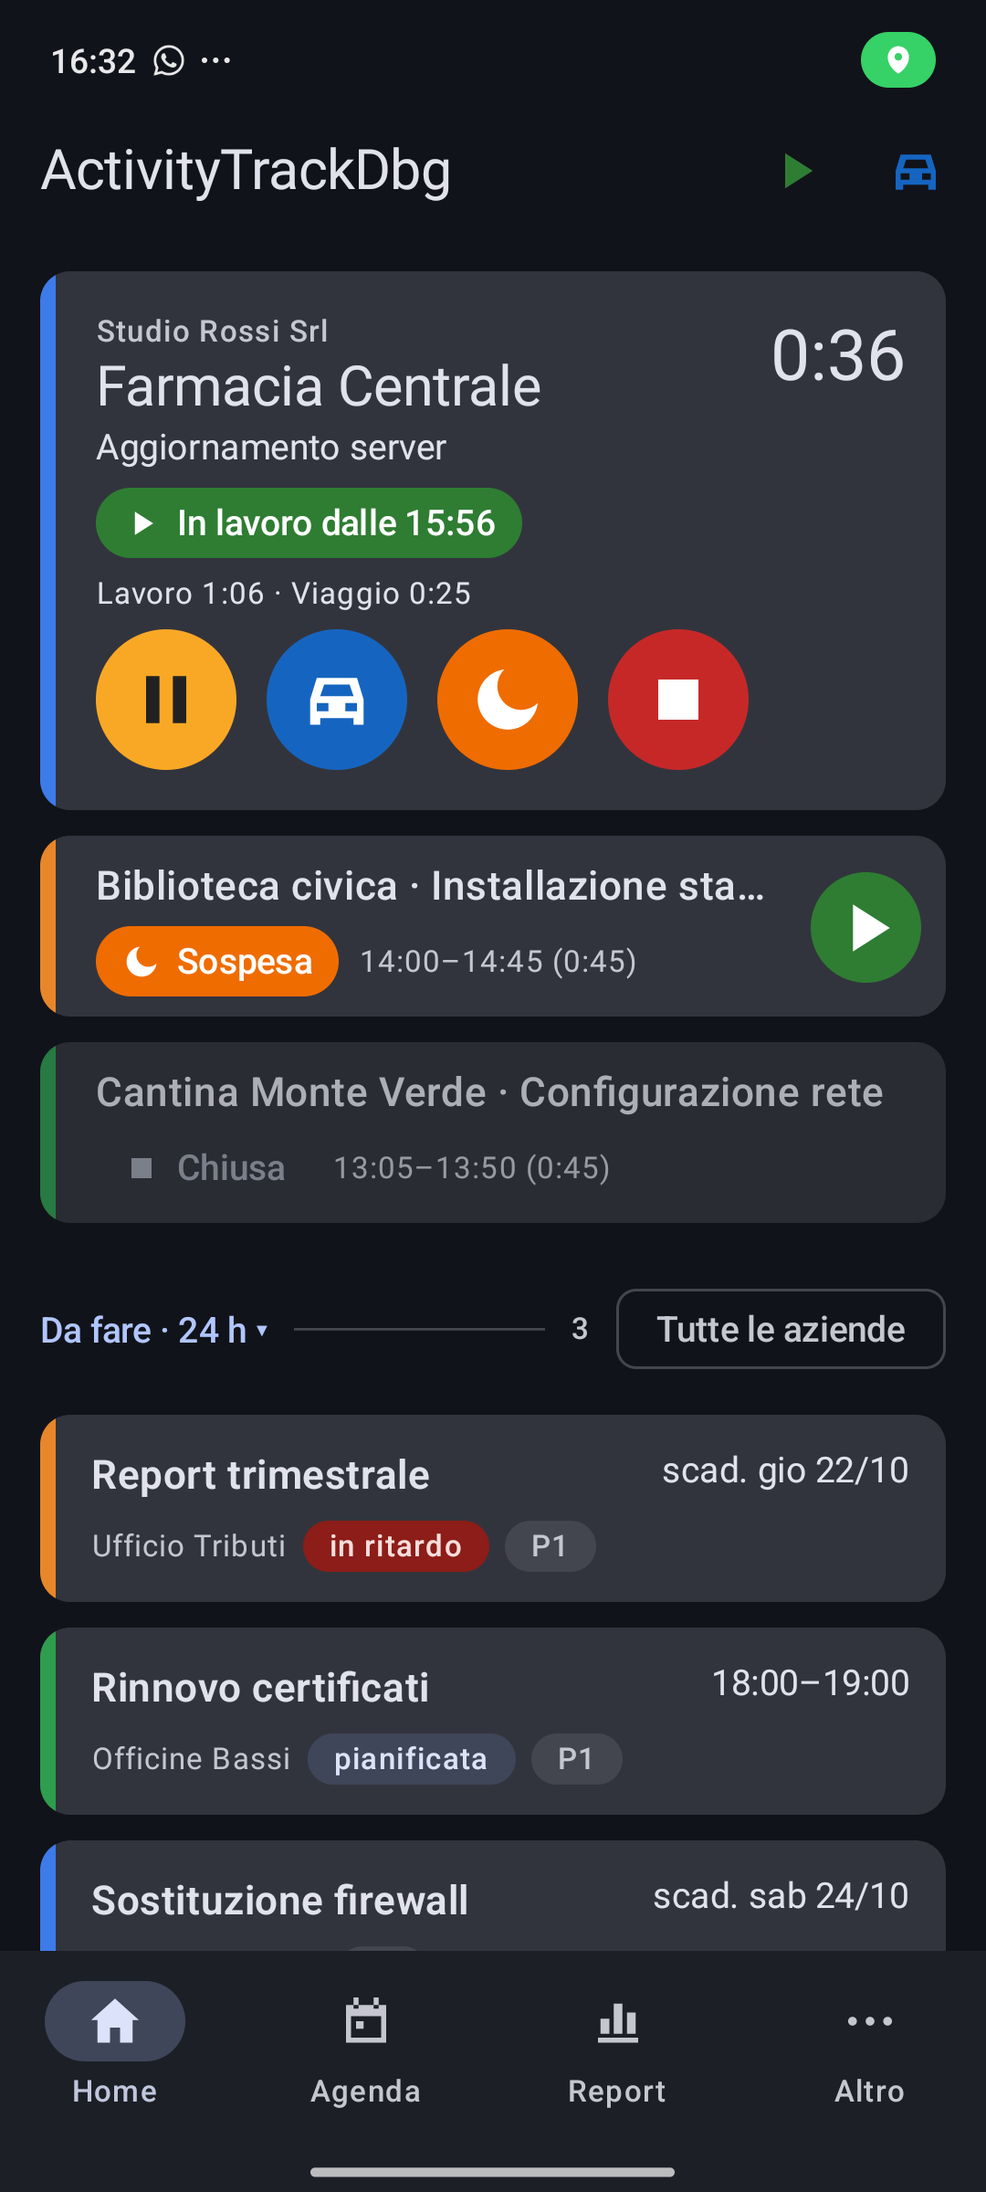
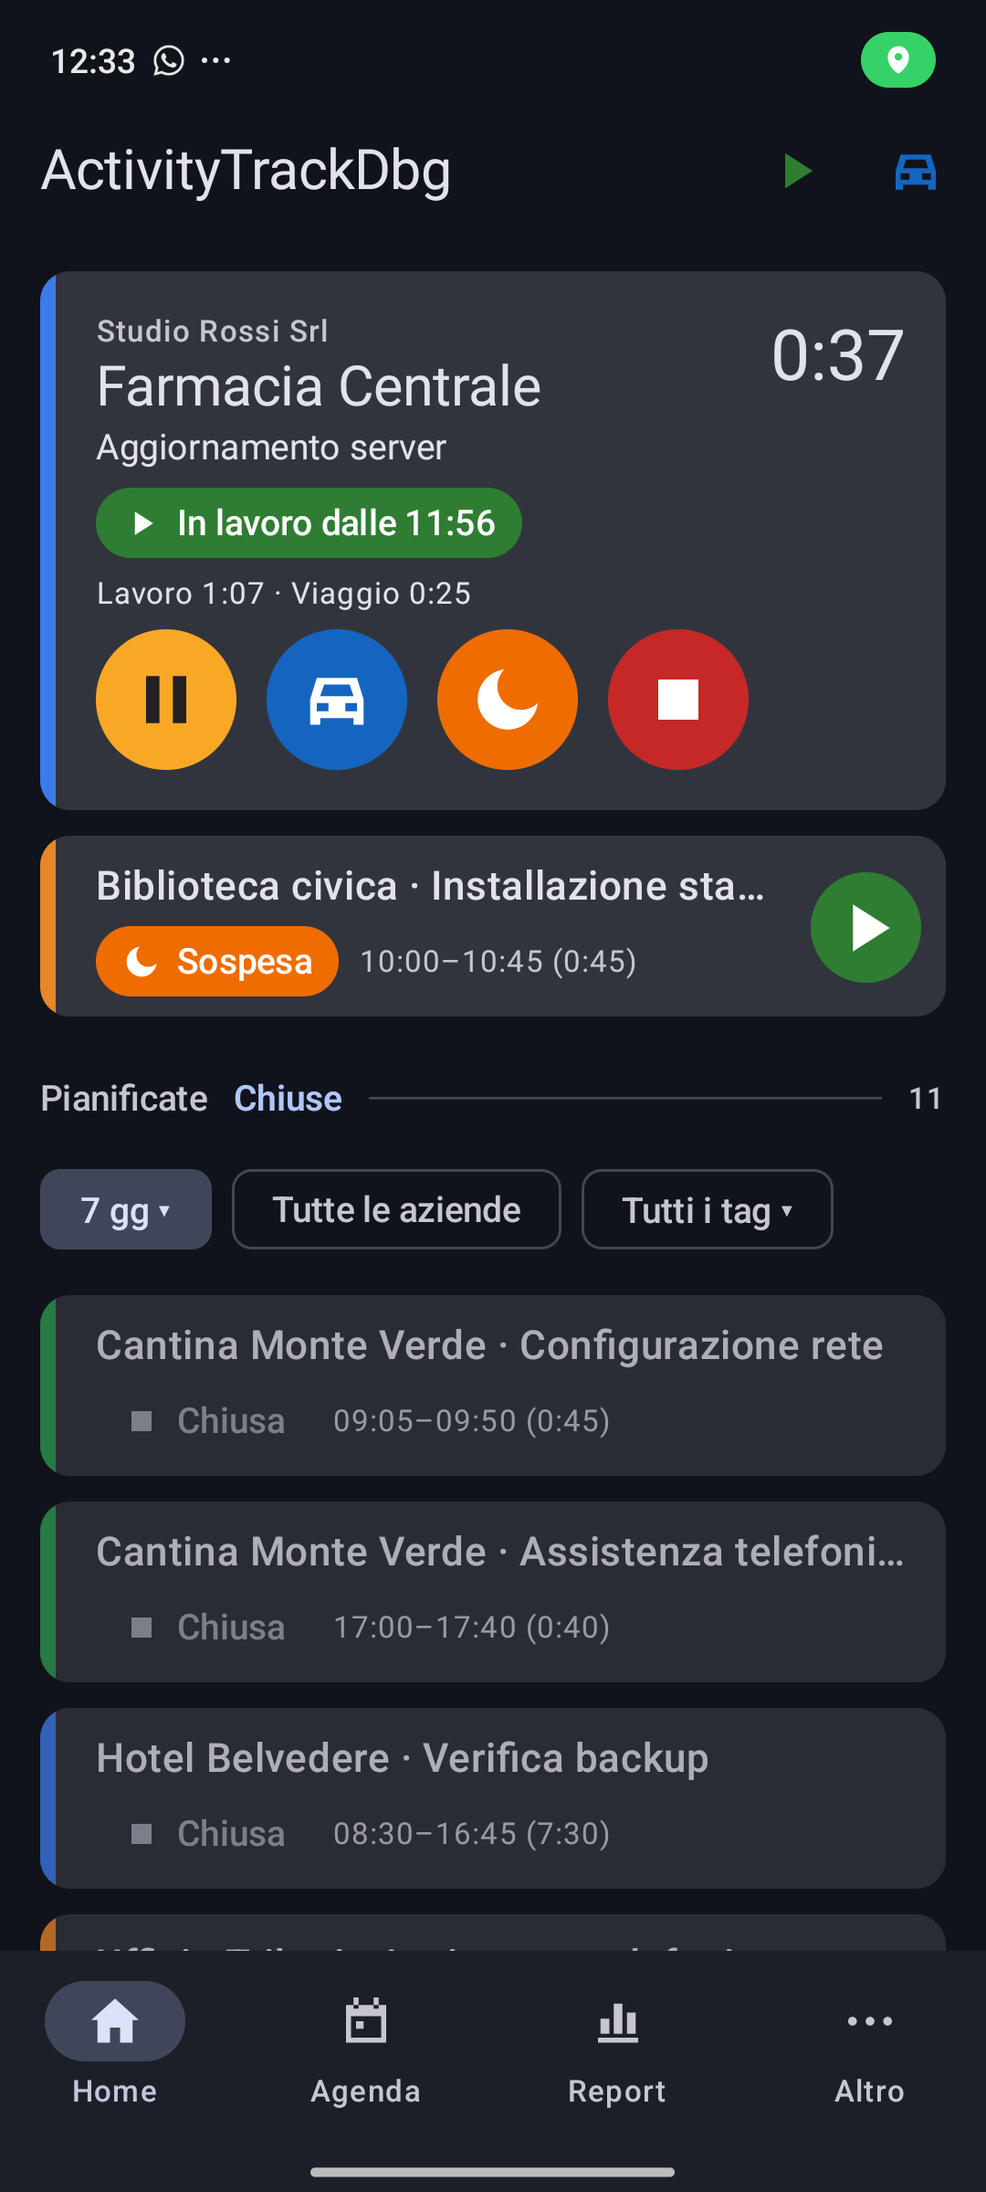
Release 0.7.4: manual with the Home tabs and the 4x2 widgets
Manual 0.7.4 (it/en): the Home chapter describes the Pianificate and
Chiuse tabs (windows, ordering, no-date section, remembered tab) in
place of the removed "latest completed" cards and "Da fare · 24 h"
section; the widget chapter documents the two new 4×2 widgets — current
activity (elapsed per minute, stop at once, Start and Travel when idle)
and planned to-dos (direct start from a to-do with a client, Pause and
Stop on the started row, scrolling rows) — plus the window setting in
the Display sections of chapters 14 and 17.

Screenshots retaken on the debug phone for both languages, two
new: home-closed (the Chiuse tab) and widgets (both 4×2 on the
launcher). scripts/screenshots.py: keeps the screen on and awake for the
whole run (a locked phone gives black shots and an empty dump), closes
the notification shade by checking the FOCUS line only (the window list
always mentions it — a stray BACK minimised the app), captures the two
new shots, and resets locale and stay-on before restoring the phone's
database (the restore is then byte-for-byte).

check-manual passes; PDFs built.

Assisted-by: GLM-5.3

diff --git a/scripts/screenshots.py b/scripts/screenshots.py
@@ -28,10 +28,10 @@ DBS = ["activitytrack.db", "activitytrack.db-wal", "activitytrack.db-shm"]
 LABELS = {
 	"it": dict(new="Nuova attività", end="^Fine$", agenda="Agenda", day="Giorno", report="Report", more="Altro",
 		todos="Da fare", md="Anagrafiche", clients="Clienti", manual="Manuale", settings="Impostazioni", running="Farmacia Centrale",
-		contacts="Contatti", calls="Chiamate"),
+		contacts="Contatti", calls="Chiamate", planned="Pianificate", closed="Chiuse"),
 	"en": dict(new="New activity", end="^End$", agenda="Agenda", day="Day", report="Report", more="More",
 		todos="To-dos", md="Master data", clients="Clients", manual="Manual", settings="Settings", running="Farmacia Centrale",
-		contacts="Contacts", calls="Calls"),
+		contacts="Contacts", calls="Calls", planned="Planned", closed="Closed"),
 }
 
 
@@ -61,11 +61,24 @@ def nodes():
 			yield n, b
 
 
+def dismiss_shade():
+	# MIUI: the notification shade may cover the app (uiautomator then sees
+	# nothing); close it with BACK, never by coordinates (pitfall, 2026-10-17).
+	# grep for the FOCUS line only: the window LIST always mentions the shade.
+	focus = sh("dumpsys", "window", "|", "grep", "mCurrentFocus")
+	if "NotificationShade" in focus:
+		sh("input", "keyevent", "4")
+		time.sleep(1.5)
+
+
 def find(pattern, index=0):
 	pat = re.compile(pattern)
 	hits = [b for n, b in nodes() if pat.search(n.get("text") or n.get("content-desc") or "")]
 	if len(hits) <= index:
-		raise SystemExit(f"not on screen: {pattern}")
+		dismiss_shade()
+		hits = [b for n, b in nodes() if pat.search(n.get("text") or n.get("content-desc") or "")]
+		if len(hits) <= index:
+			raise SystemExit(f"not on screen: {pattern}")
 	return hits[index]
 
 
@@ -111,6 +124,7 @@ def restart():
 	sh("am", "force-stop", PKG)
 	sh("am", "start", "-n", MAIN)
 	time.sleep(4)
+	dismiss_shade()
 
 
 def put_db(local):
@@ -126,6 +140,10 @@ def capture(lang):
 	sh("cmd", "locale", "set-app-locales", PKG, "--locales", {"it": "it-IT", "en": "en-US"}[lang])
 	restart()
 	shot(lang, "home")
+	# the bottom tabs of the Home (issue #59): the Chiuse tab, then back
+	tap(f"^{t['closed']}$", wait=2.5)
+	shot(lang, "home-closed")
+	tap(f"^{t['planned']}$", wait=2)
 	tap(t["new"])
 	shot(lang, "start")
 	tap(t["end"])
@@ -169,6 +187,13 @@ def capture(lang):
 	tap(f"^{t['settings']}$")
 	shot(lang, "settings")
 	back()
+	# the two 4×2 widgets on the launcher (issue #62): the app has just run,
+	# so they show the sample data in the current language
+	sh("input", "keyevent", "3")
+	time.sleep(2)
+	sh("input", "swipe", "900", "1000", "200", "1000", "300")
+	time.sleep(3)
+	shot(lang, "widgets")
 
 
 def main():
@@ -176,6 +201,10 @@ def main():
 	# no phone: stop before anything, or every screenshot would be written empty
 	if adb("get-state").stdout.decode().strip() != "device":
 		raise SystemExit("no phone connected (adb get-state)")
+	# the screen must stay on and unlocked for the whole run: a locked phone
+	# gives black screenshots and uiautomator sees nothing (MIUI keyguard)
+	sh("input", "keyevent", "224")
+	sh("svc", "power", "stayon", "true")
 	with tempfile.TemporaryDirectory() as tmp:
 		# the phone's own data, kept outside /tmp: a lost connection must not lose it
 		saved = os.path.expanduser(time.strftime("~/activitytrack-device-backups/screenshots-%Y%m%d-%H%M%S"))
@@ -194,6 +223,10 @@ def main():
 		finally:
 			if adb("get-state").stdout.decode().strip() != "device":
 				raise SystemExit(f"phone offline: debug data NOT restored; the copy is in {saved}")
+			# locale reset and stay-off first: both restart or poke the app,
+			# which would touch the database files being restored
+			sh("svc", "power", "stayon", "false")
+			sh("cmd", "locale", "set-app-locales", PKG, "--locales", "")
 			sh("am", "force-stop", PKG)
 			sh("run-as", PKG, "rm", "-f", *[f"databases/{d}" for d in DBS])
 			for d in DBS:
@@ -202,7 +235,6 @@ def main():
 					adb("push", p, f"/data/local/tmp/{d}")
 					sh(f"run-as {PKG} cp /data/local/tmp/{d} databases/{d}")
 					sh("rm", f"/data/local/tmp/{d}")
-			sh("cmd", "locale", "set-app-locales", PKG, "--locales", "")
 			# the restore must be what was saved, byte for byte
 			for d in DBS:
 				p = os.path.join(saved, d)

diff --git a/docs/manual/en/manual.md b/docs/manual/en/manual.md
@@ -1,4 +1,4 @@
-Version 0.7.2 (October 2026). Please report any difference between this
+Version 0.7.4 (October 2026). Please report any difference between this
 manual and the app. The *Quick start* sums up daily use in a few pages; this
 manual covers everything: **Part I** how to use the app, **Part II** the
 reference (settings, entities, states, flows).
@@ -128,7 +128,7 @@ test build installed from the PC: a separate app with its own data and folder
 
 | Tab | Content |
 |---|---|
-| **Home** | the running activity's card (or ▶ Start / 🚗 Travel), small cards of the others, latest completed, "To do · 24 h ▾" |
+| **Home** | the running activity's card (or ▶ Start / 🚗 Travel), small cards of the others; below, the **Planned** and **Closed** tabs |
 | **Agenda** | consultation: list, day, week, month |
 | **Report** | one day's report: solar, reported, one line per activity, export |
 | **More** | "To-dos", "Import / export", "Master data", "Settings" (with "Gestures") |
@@ -147,15 +147,24 @@ From a tab other than Home, Back returns to Home.
   to complete): state and times as "from–to (length)" (e.g.
   "11:00–11:45 (0:45)"), and a button to resume it (or pause it, or complete
   it). Tapping it brings the activity to the big card.
-- The **latest completed activities** stay in view (2, or 3 with the compact
-  display), dimmed, with the "Closed" state in grey: tapping one opens it.
-  Open background activities take their places first.
-- Under the **"To do · 24 h ▾"** separator, one card for every to-do planned
-  or due in the next 24 hours (overdue ones included); at the bottom, struck
-  through, those ignored today. Tapping the title picks the Home's period: 24
-  h, 7 days, 30 days or all (separate from the "To-dos" screen's).
+- At the bottom the two **tabs** (0.7.4): **Planned** and **Closed**. Switch
+  by tapping the title or dragging the header horizontally (the card
+  gestures stay); the chosen tab is remembered across restarts.
+- **Planned**: the to-dos planned or due within the chosen period, the
+  overdue ones first (their time in red); under a **"No date"** separator
+  those without a plan and without a due date; at the bottom, struck
+  through, those ignored today. The period next to the title: **24 h**
+  (default), **3 d**, **7 d**, **30 d** or **All** — separate from the
+  "To-dos" screen's. Next to it, **"All companies"** filters the to-dos by
+  company.
+- **Closed**: activities closed or to complete and to-dos marked done, the
+  most recent end first; the tag filter lives here (to-dos carry no tags).
+  The period: **Today** (default, from the 06:00 carry-over boundary as in
+  the reports), **24 h**, **7 d**, **30 d**.
 
-![Home: a running activity, the others below, the latest completed and the to-dos](img/home.png)
+![Home: a running activity, the others below, the Planned and Closed tabs](img/home.png)
+
+![Home, the Closed tab](img/home-closed.png)
 
 ### Gestures (dragging the cards)
 Every card can be dragged left or right (Home, Agenda list, "To-dos"
@@ -178,7 +187,7 @@ band** on the left with the company colour; when a list shows a single
 company, the band has the **client** colour. Without a chosen colour there is
 no band; in the Agenda the blocks of those companies are grey.
 
-Next to "To do · 24 h ▾" (and in the "To-dos" screen) the **"All
+Next to the planned-to-dos period (and in the "To-dos" screen) the **"All
 companies"** button filters to-dos by company: the filter stays until you
 remove it with ✕. Running activities are not filtered. In the "To-dos" screen
 the period filter (**24 h**, **7 days**, **30 days**, **All**) shows the
@@ -507,9 +516,8 @@ system's due date.
   It also comes outside working hours and on days off; it goes away when the
   to-do is started, done, re-planned or its block is over (for a moment
   without length, an hour after its start).
-- On Home, **"To do · 24 h ▾"** shows those due or planned in the next 24
-  hours (or in the period picked by tapping the title: 7 days, 30 days, all),
-  overdue ones included; "overdue" marks those still open after their
+- On Home, the **Planned** tab shows those due or planned within the chosen
+  period (24 h by default, see above), overdue ones included; "overdue" marks those still open after their
   planned block or after the due date (after the due time, or from the next
   day when the due date has no time).
 - **Ignore** a to-do (gesture or "Ignore") instead of deleting it: it stays at
@@ -677,10 +685,26 @@ days" goes further back.
   and "€"; with none, the recent clients and the start button.
 - **"Pause / resume" widget (1×1)** — pauses or resumes the most recent
   activity; with none, opens the start screen.
+- **"Current activity" widget (4×2, 0.7.4)** — the most recent open activity
+  as in the Home's big card: company, client, activity, state ("Working
+  since 09:06"), work and travel totals and the elapsed time moving once a
+  minute; below, the commands of the current state (**Stop** stops at once,
+  as from the notification). With no open activity: **▶ Start** (opens "New
+  activity") and **🚗 Travel** (starts at once). Resizable beyond 4×2.
+- **"Planned to-dos" widget (4×2, 0.7.4)** — the next to-dos (the overdue
+  one first, its time in red), each with **▶**: when the to-do has a client
+  the activity starts at once with its data, without opening the app;
+  otherwise ▶ opens "New activity" to pick one. The started row shows
+  **Pause** and **Stop**; done to-dos leave the widget; when the rows do not
+  fit, the widget scrolls. How far to look ahead (24 h default, 3, 7 or 30
+  days; the overdue always in) is in Settings → "Display" → "Planned
+  to-dos widget".
 - **Quick Settings tile** — same as the 1×1 widget. On OxygenOS add it from
   Settings → "Quick Settings tile" → "Add".
 - **Shortcuts** (long press on the icon) — the 4 most recent clients and
   "Expense".
+
+![The 4×2 widgets on the home screen: current activity and planned to-dos](img/widgets.png)
 
 ---
 
@@ -695,6 +719,7 @@ Settings are split into sections, each with its own page and "Save";
 | Section | Item | Default |
 |---|---|---|
 | Display | Normal / Compact | Normal |
+| | Planned to-dos widget: window | 24 h |
 | Times | Times freely editable: start and end chosen when starting and stopping, segments editable and deletable (off: times as recorded; "+ Travel" and "+ Pause" stay) | on |
 | Calls | Recognise incoming / outgoing calls | off |
 | | Pause the activity of another client / Propose an activity | on |
@@ -761,6 +786,7 @@ to the nearest limit.
 | Item | Effect | Default |
 |---|---|---|
 | Normal / Compact | Compact: text at 88 %, tighter cards and buttons; in the activity screen the empty optional details (locality, place, notes) fold under "More details ▾". | Normal |
+| Planned to-dos widget: window | How far the like-named widget looks ahead: 24 h, 3, 7 or 30 days; overdue to-dos are always included. A policy can lock it (padlock). | 24 h |
 
 ### Times
 

diff --git a/docs/manual/it/manual.md b/docs/manual/it/manual.md
@@ -1,4 +1,4 @@
-Versione 0.7.2 (ottobre 2026). Segnalare ogni differenza tra questo manuale
+Versione 0.7.4 (ottobre 2026). Segnalare ogni differenza tra questo manuale
 e l'app. La *Guida rapida* riassume in poche pagine l'uso quotidiano; questo
 manuale descrive tutto: la **Parte I** l'uso, la **Parte II** il riferimento
 (impostazioni, entità, stati, flussi).
@@ -128,7 +128,7 @@ separata, con dati e cartella propri (`ActivityTrackDbg`).
 
 | Scheda | Contenuto |
 |---|---|
-| **Home** | riquadro dell'attività in corso (o ▶ Avvia / 🚗 Viaggio), riquadri piccoli delle altre, ultime completate, "Da fare · 24 h ▾" |
+| **Home** | riquadro dell'attività in corso (o ▶ Avvia / 🚗 Viaggio), riquadri piccoli delle altre; sotto, le schede **Pianificate** e **Chiuse** |
 | **Agenda** | consultazione: lista, giorno, settimana, mese |
 | **Report** | il report di un giorno: solare, rendicontato, righe per attività, esportazione |
 | **Altro** | "Da fare", "Importa / esporta", "Anagrafiche", "Impostazioni" (con "Gesti") |
@@ -148,17 +148,26 @@ Da una scheda diversa dalla Home, il tasto Indietro torna alla Home.
   (es. "11:00–11:45 (0:45)"), e un pulsante per riprenderla (o metterla in
   pausa, o completarla). Toccandolo, l'attività passa nel
   riquadro grande.
-- Restano visibili anche le **ultime attività completate** (2, o 3 in
-  visualizzazione compatta), più tenui e con lo stato "Chiusa" in grigio:
-  toccandole si apre la scheda. Le
-  attività aperte in background prendono il loro posto.
-- Sotto il separatore **"Da fare · 24 h ▾"** un riquadro per ogni voce
-  pianificata o in scadenza nelle prossime 24 ore (comprese quelle in
-  ritardo); in fondo, barrate, quelle ignorate oggi. Toccando il titolo scegli
-  il periodo della Home: 24 h, 7 giorni, 30 giorni o tutte (separato da
-  quello della schermata "Da fare").
+- In basso le due **schede** (0.7.4): **Pianificate** e **Chiuse**. Si
+  cambia toccando il titolo o trascinando orizzontalmente l'intestazione
+  (i gesti sui riquadri restano); la scheda scelta è ricordata al
+  riavvio.
+- **Pianificate**: le voci da fare pianificate o in scadenza nel periodo
+  scelto, quelle in ritardo per prime (con l'orario in rosso); sotto un
+  separatore **"Senza data"** le voci senza pianificazione né scadenza; in
+  fondo, barrate, quelle ignorate oggi. Il periodo accanto al titolo:
+  **24 h** (predefinito), **3 gg**, **7 gg**, **30 gg** o **Tutti** —
+  separato da quello della schermata "Da fare". Accanto, **"Tutte le
+  aziende"** filtra le voci per azienda.
+- **Chiuse**: le attività chiuse o da completare e le voci da fare
+  completate, dalla fine più recente; qui c'è anche il filtro
+  **etichette** (le voci da fare non le hanno). Il periodo: **Oggi**
+  (predefinito, dal confine delle 06:00 come nei report), **24 h**,
+  **7 gg**, **30 gg**.
 
-![Home: un'attività in corso, le altre sotto, le ultime completate e i Da fare](img/home.png)
+![Home: un'attività in corso, le altre sotto, le schede Pianificate e Chiuse](img/home.png)
+
+![Home, scheda Chiuse](img/home-closed.png)
 
 ### Gesti (trascinare i riquadri)
 Ogni riquadro si trascina a sinistra o a destra (Home, lista dell'Agenda,
@@ -518,9 +527,8 @@ cambia la scadenza del gestionale.
   (apre la voce). Arriva anche fuori orario e nei giorni liberi; sparisce se
   la voce viene avviata, segnata come fatta, ripianificata o se il blocco è
   passato (per un momento senza durata, un'ora dopo l'inizio).
-- In Home, **"Da fare · 24 h ▾"** mostra quelle in scadenza o pianificate
-  nelle prossime 24 ore (o nel periodo scelto toccando il titolo: 7 giorni,
-  30 giorni, tutte), comprese quelle in ritardo; sono segnate "in ritardo" quelle ancora aperte dopo il loro blocco
+- In Home, la scheda **Pianificate** mostra quelle in scadenza o pianificate
+  nel periodo scelto (predefinito 24 h, vedi sopra), comprese quelle in ritardo; sono segnate "in ritardo" quelle ancora aperte dopo il loro blocco
   pianificato o dopo la scadenza (dopo l'ora di scadenza, o dal giorno dopo
   se la scadenza non ha ora).
 - **Ignorare** una voce (gesto o azione "Ignora") invece di cancellarla: resta
@@ -695,10 +703,27 @@ calendario vengono sovrascritte. Gli ultimi 14 giorni si aggiornano da soli;
   senza attività, i clienti recenti e il pulsante di avvio.
 - **Widget "Pausa / riprendi" (1×1)** — mette in pausa o riprende l'attività
   più recente; senza attività apre l'avvio.
+- **Widget "Attività in corso" (4×2, 0.7.4)** — l'attività aperta più recente
+  come nel riquadro grande della Home: azienda, cliente, attività, stato
+  ("In lavoro dalle 09:06"), totali di lavoro e viaggio e tempo trascorso
+  che avanza al minuto; sotto, i comandi dello stato attuale (lo **Stop**
+  ferma subito, come dalla notifica). Senza attività aperte: **▶ Avvia**
+  (apre "Nuova attività") e **🚗 Viaggio** (parte subito). Si ridimensiona
+  oltre il 4×2.
+- **Widget "Attività pianificate" (4×2, 0.7.4)** — le prossime voci da fare
+  (per prima quella in ritardo, con l'orario in rosso), ognuna con **▶**:
+  se la voce ha un cliente l'attività parte subito con i suoi dati, senza
+  aprire l'app; se non ce l'ha, ▶ apre "Nuova attività" per sceglierlo. La
+  riga avviata mostra **Pausa** e **Stop**; le voci completate lasciano il
+  widget; se le righe non bastano, il widget scorre. Quanto guardare avanti
+  (24 h predefinite, 3, 7 o 30 giorni; i ritardi sempre) è in
+  Impostazioni → "Visualizzazione" → "Widget attività pianificate".
 - **Riquadro delle Impostazioni rapide** — stessa funzione del widget 1×1. Su
   OxygenOS si aggiunge da Impostazioni → "Riquadro Impostazioni rapide" →
   "Aggiungi".
 - **Scorciatoie** (pressione lunga sull'icona) — i 4 clienti più recenti e "Spesa".
+
+![I widget 4×2 sullo schermo home: attività in corso e attività pianificate](img/widgets.png)
 
 ---
 
@@ -713,6 +738,7 @@ spiegato nella Parte II, §17.
 | Sezione | Voce | Predefinito |
 |---|---|---|
 | Visualizzazione | Normale / Compatta | Normale |
+| | Widget attività pianificate: intervallo | 24 h |
 | Orari | Orari modificabili liberamente: inizio e fine scelti all'avvio e allo stop, tratti modificabili ed eliminabili (spento: orari come registrati; "+ Viaggio" e "+ Pausa" restano) | acceso |
 | Chiamate | Riconosci le chiamate in entrata / in uscita | spenti |
 | | Metti in pausa l'attività di un altro cliente / Proponi un'attività | accesi |
@@ -779,6 +805,7 @@ riportati al limite più vicino.
 | Voce | Effetto | Predefinito |
 |---|---|---|
 | Normale / Compatta | Compatta: testo all'88 %, riquadri e pulsanti più stretti; nella scheda attività i dettagli facoltativi vuoti (località, dove, note) si richiudono in "Altri dettagli ▾". | Normale |
+| Widget attività pianificate: intervallo | Quanto guardare avanti nel widget omonimo: 24 h, 3, 7 o 30 giorni; le voci in ritardo sono sempre incluse. Una policy può fissarla (con lucchetto). | 24 h |
 
 ### Orari
 

diff --git a/docs/manual/it/connectors/antares.md b/docs/manual/it/connectors/antares.md
@@ -1,5 +1,5 @@
 <!-- title: Integrazione Antares (Saidea) -->
-Versione 0.7.2 · guida al collegamento tra ActivityTrack e il gestionale
+Versione 0.7.4 · guida al collegamento tra ActivityTrack e il gestionale
 Antares di Saidea. L'uso generale dell'app è nel *Manuale*.
 
 ## 1. Cosa fa

diff --git a/docs/manual/en/connectors/antares.md b/docs/manual/en/connectors/antares.md
@@ -1,5 +1,5 @@
 <!-- title: Antares (Saidea) integration -->
-Version 0.7.2 · how to connect ActivityTrack with Saidea's Antares
+Version 0.7.4 · how to connect ActivityTrack with Saidea's Antares
 management system. General use of the app is in the *User manual*.
 
 ## 1. What it does

diff --git a/docs/manual/en/quickstart.md b/docs/manual/en/quickstart.md
@@ -1,4 +1,4 @@
-Version 0.7.2 · for everyday use; the *User manual* explains everything else.
+Version 0.7.4 · for everyday use; the *User manual* explains everything else.
 
 ## 1. First time
 1. Install `ActivityTrack-<version>.apk` from the GitHub *Releases*.

diff --git a/docs/manual/it/quickstart.md b/docs/manual/it/quickstart.md
@@ -1,4 +1,4 @@
-Versione 0.7.2 · per l'uso di tutti i giorni; il *Manuale* spiega tutto il
+Versione 0.7.4 · per l'uso di tutti i giorni; il *Manuale* spiega tutto il
 resto.
 
 ## 1. Prima volta
